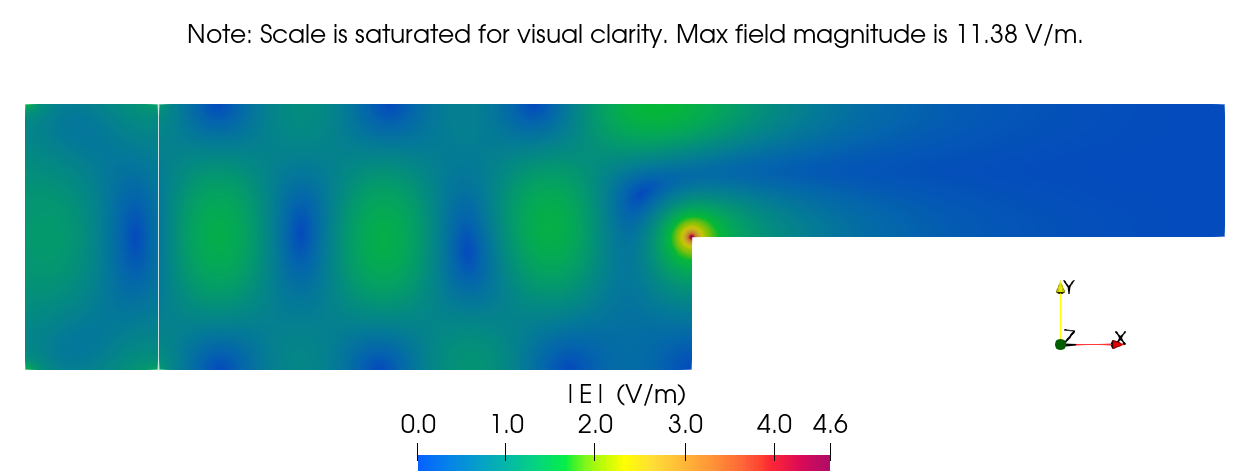
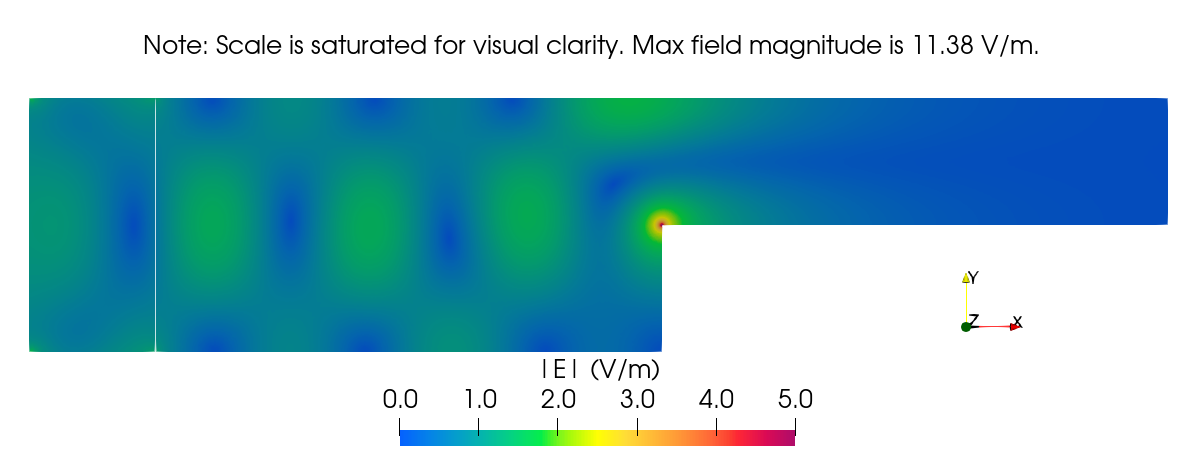
Update evanescent field media for consistency

diff --git a/modules/electromagnetics/doc/content/benchmarks/EvanescentWave.md b/modules/electromagnetics/doc/content/benchmarks/EvanescentWave.md
@@ -193,7 +193,9 @@ of field enhancement might be - it is a well known issue to separate out the two
 effects). The surface normal is ill-defined at the corner node, and thus the
 boundary condition suggests that the current must change direction instantaneously
 with the modeled conducting surface. This results in a possibly infinite electric
-field magnitude.
+field magnitude. Note that all color bars in the presented results are scaled
+for clarity due to the presence of the singularity. Maximum field magnitude at
+the singularity is noted on each figure.
 
 Rounding the corner is a common way to try to avoid this issue (as mentioned in
 [!citep](jin-fem) and others), and the impact of a round corner with radius of
@@ -208,7 +210,7 @@ magnitude are extremely local (made even more so due to the level of local
 refinement used here) due to the nature of the finite element method (minimizing
 global error while possibly allowing local ones). Away from this singularity,
 this property allows us to successfully use this model to examine evanescent wave
-decay in the smaller waveguide region on the right, away from the singularity point.
+decay in the smaller waveguide region on the right.
 
 !media media/evanescent_field_results_20.png
        style=width:100%;margin:auto;
